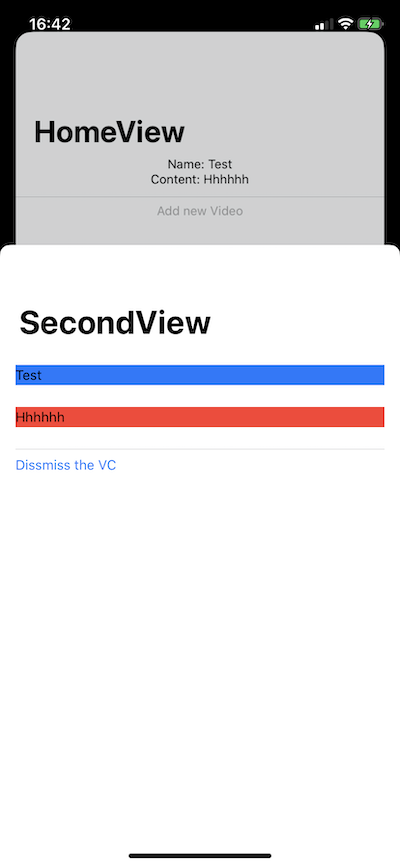
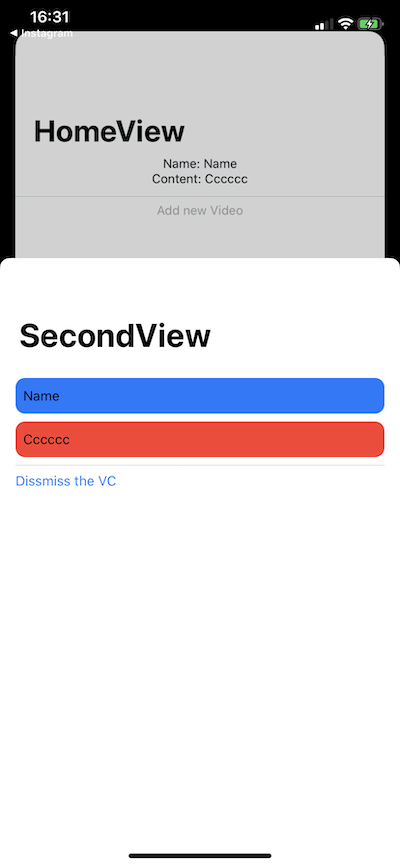
verbessert

diff --git a/ObservedObjectTest/views/SecondView.swift b/ObservedObjectTest/views/SecondView.swift
@@ -19,20 +19,16 @@ struct SecondView: View {
         NavigationView{
             VStack(alignment: .leading){
                 
-                TextField("Video Title", text: $videoTitle).background(Color.blue)
-                TextField("Video Content", text: $videoContent).background(Color.red).frame(height: 50)
+                TextField("Video Title", text: $videoTitle).padding(8).background(Color.blue).clipShape(RoundedRectangle(cornerRadius: 10))
+                TextField("Video Content", text: $videoContent).padding(8).background(Color.red).clipShape(RoundedRectangle(cornerRadius: 10))
                 
                 Divider()
                 Button("Dissmiss the VC"){
                     self.presentationMode.wrappedValue.dismiss()
-                    
                 }
                 Spacer()
                 
             }.padding().navigationBarTitle(Text("SecondView"))
-            
-            
-            
         }
     }
 }
@@ -41,6 +37,6 @@ struct SecondView_Previews: PreviewProvider {
     
     @ObservedObject static var videoData = VideoData()
     static var previews: some View {
-         SecondView(videoTitle: $videoData.title, videoContent: $videoData.contentIdea)
+        SecondView(videoTitle: $videoData.title, videoContent: $videoData.contentIdea)
     }
 }

diff --git a/ObservedObjectTest/views/ContentView.swift b/ObservedObjectTest/views/ContentView.swift
@@ -8,19 +8,16 @@
 
 import SwiftUI
 
-
 final class VideoData: ObservableObject{
     @Published var title:String = ""
     @Published var contentIdea:String = ""
 }
-
 
 struct ContentView: View {
     
     @State private var showSecondView:Bool = false
     
     @ObservedObject var videoData = VideoData()
-    
     
     var body: some View {
         NavigationView{
@@ -32,7 +29,9 @@ struct ContentView: View {
                 Divider()
                 
                 Button("Add new Video"){
+                    
                     self.showSecondView.toggle()
+                    
                 }.sheet(isPresented: $showSecondView){
                     
                     SecondView(videoTitle: self.$videoData.title, videoContent: self.$videoData.contentIdea)
@@ -41,8 +40,6 @@ struct ContentView: View {
                 Spacer()
             }.navigationBarTitle(Text("HomeView"))
         }
-        
-        
     }
 }
 
